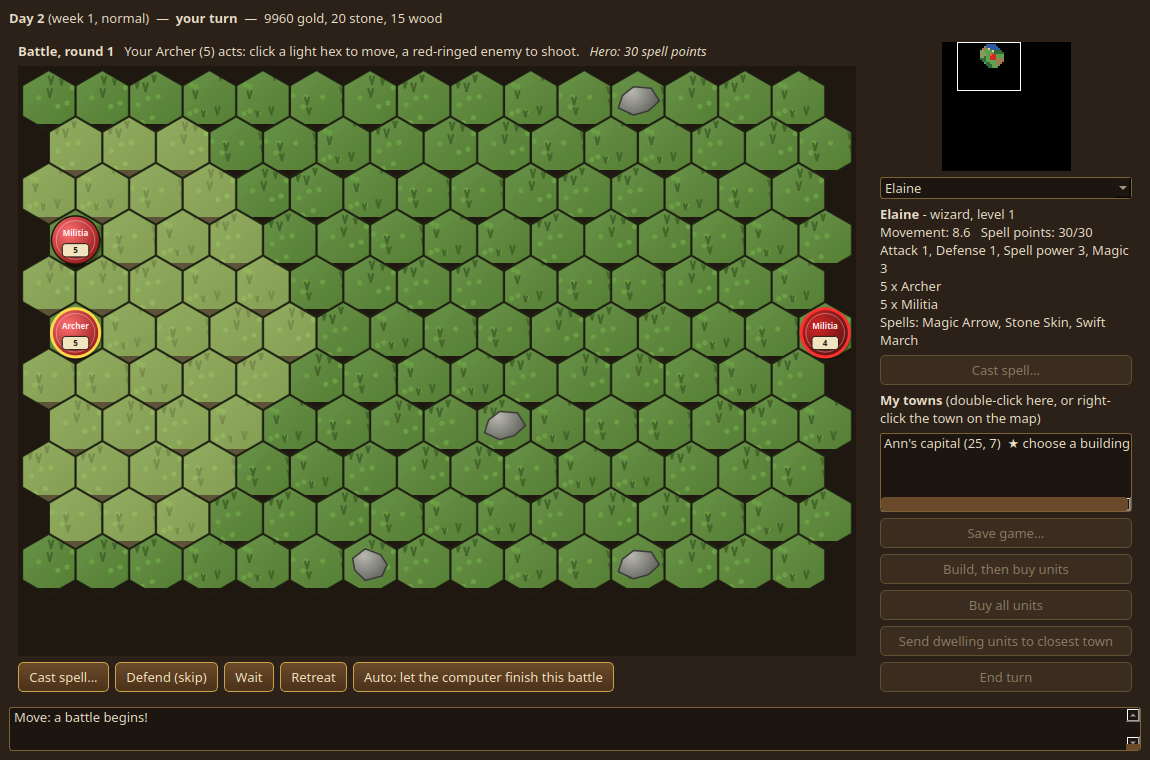
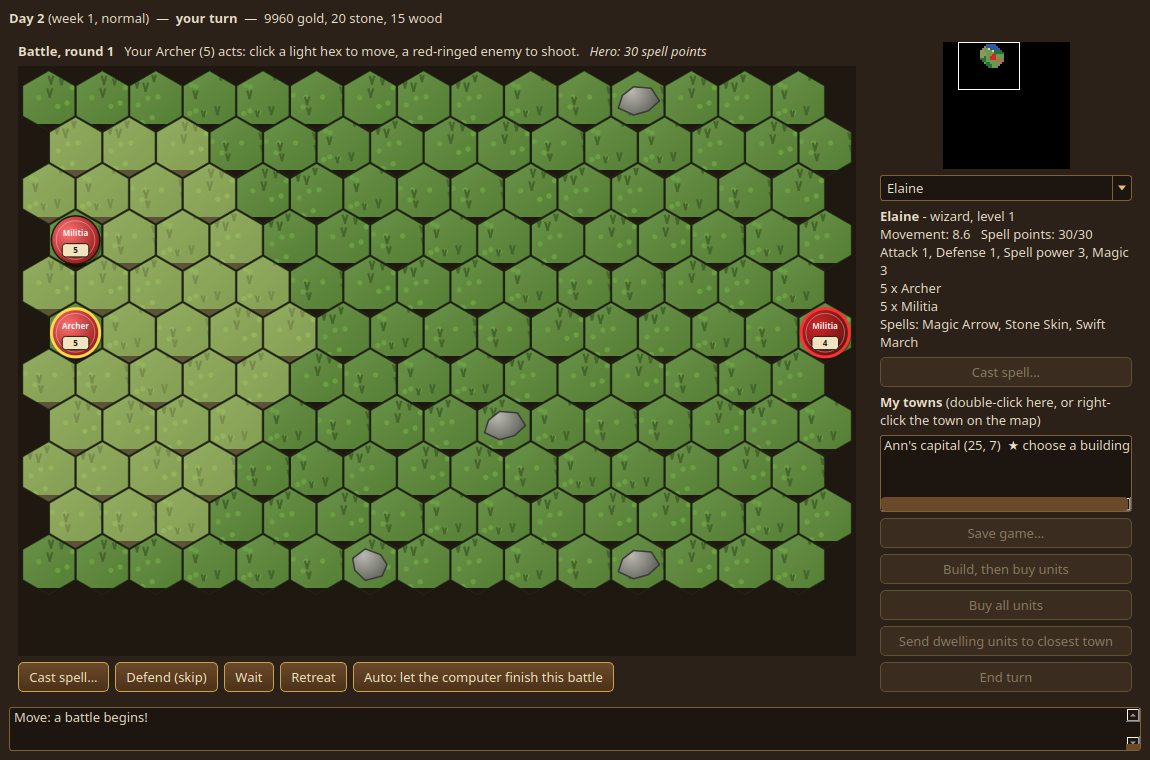
Client style: visible combo/spin arrows and checkboxes, wider combo boxes

diff --git a/src/client/Art.cpp b/src/client/Art.cpp
@@ -1,5 +1,7 @@
 #include "client/Art.h"
 
+#include <QDir>
+#include <QFile>
 #include <QHash>
 #include <QPainter>
 #include <QPainterPath>
@@ -360,8 +362,30 @@ void drawUnitToken(QPainter& p, const QPointF& c, double rad, const QColor& side
     p.restore();
 }
 
+// Small arrow images for the style sheet (it cannot draw them itself).
+QString arrowFile(bool up) {
+    const QString dir = QDir::temp().filePath(QStringLiteral("kot_art"));
+    QDir().mkpath(dir);
+    const QString path = QDir(dir).filePath(up ? QStringLiteral("up.png") : QStringLiteral("down.png"));
+    if (!QFile::exists(path)) {
+        QPixmap pm(20, 20);
+        pm.fill(Qt::transparent);
+        QPainter p(&pm);
+        p.setRenderHint(QPainter::Antialiasing, true);
+        p.setPen(Qt::NoPen);
+        p.setBrush(QColor("#e0c070"));
+        QPolygonF tri;
+        if (up) tri << QPointF(2, 15) << QPointF(18, 15) << QPointF(10, 5);
+        else tri << QPointF(2, 5) << QPointF(18, 5) << QPointF(10, 15);
+        p.drawPolygon(tri);
+        p.end();
+        pm.save(path);
+    }
+    return path;
+}
+
 QString styleSheet() {
-    return QStringLiteral(R"(
+    QString css = QStringLiteral(R"(
 QWidget { background-color: #2b2118; color: #eadfc8; font-size: 10pt; }
 QLabel { background: transparent; }
 QPushButton {
@@ -383,9 +407,23 @@ QHeaderView::section { background-color: #3a2c1e; color: #f0d898; border: 1px so
 QScrollBar:vertical, QScrollBar:horizontal { background: #1d1610; }
 QScrollBar::handle { background: #6b4a2b; border-radius: 4px; }
 QToolTip { background-color: #f1e4c0; color: #20180c; border: 1px solid #7a6235; }
-QCheckBox::indicator { width: 14px; height: 14px; }
+QComboBox { min-width: 7em; padding: 2px 22px 2px 6px; }
+QComboBox::drop-down { width: 18px; border-left: 1px solid #7a6235; }
+QComboBox::down-arrow { image: url(%DOWN%); width: 10px; height: 10px; }
+QSpinBox { padding-right: 18px; min-width: 3em; }
+QSpinBox::up-button, QSpinBox::down-button { width: 16px; background: #4a3119; border-left: 1px solid #7a6235; }
+QSpinBox::up-arrow { image: url(%UP%); width: 8px; height: 8px; }
+QSpinBox::down-arrow { image: url(%DOWN%); width: 8px; height: 8px; }
+QCheckBox { spacing: 6px; }
+QCheckBox::indicator { width: 15px; height: 15px; border: 1px solid #c9a24a; border-radius: 3px; background: #1d1610; }
+QCheckBox::indicator:checked { background: qradialgradient(cx:0.5, cy:0.5, radius:0.6, fx:0.5, fy:0.5,
+                               stop:0 #ffe07a, stop:0.55 #c9a24a, stop:0.6 #1d1610); }
+QCheckBox::indicator:disabled { border-color: #5e5030; }
 QDialog, QMessageBox { background-color: #2b2118; }
 )");
+    css.replace(QStringLiteral("%UP%"), arrowFile(true));
+    css.replace(QStringLiteral("%DOWN%"), arrowFile(false));
+    return css;
 }
 
 }  // namespace kot::client::art
